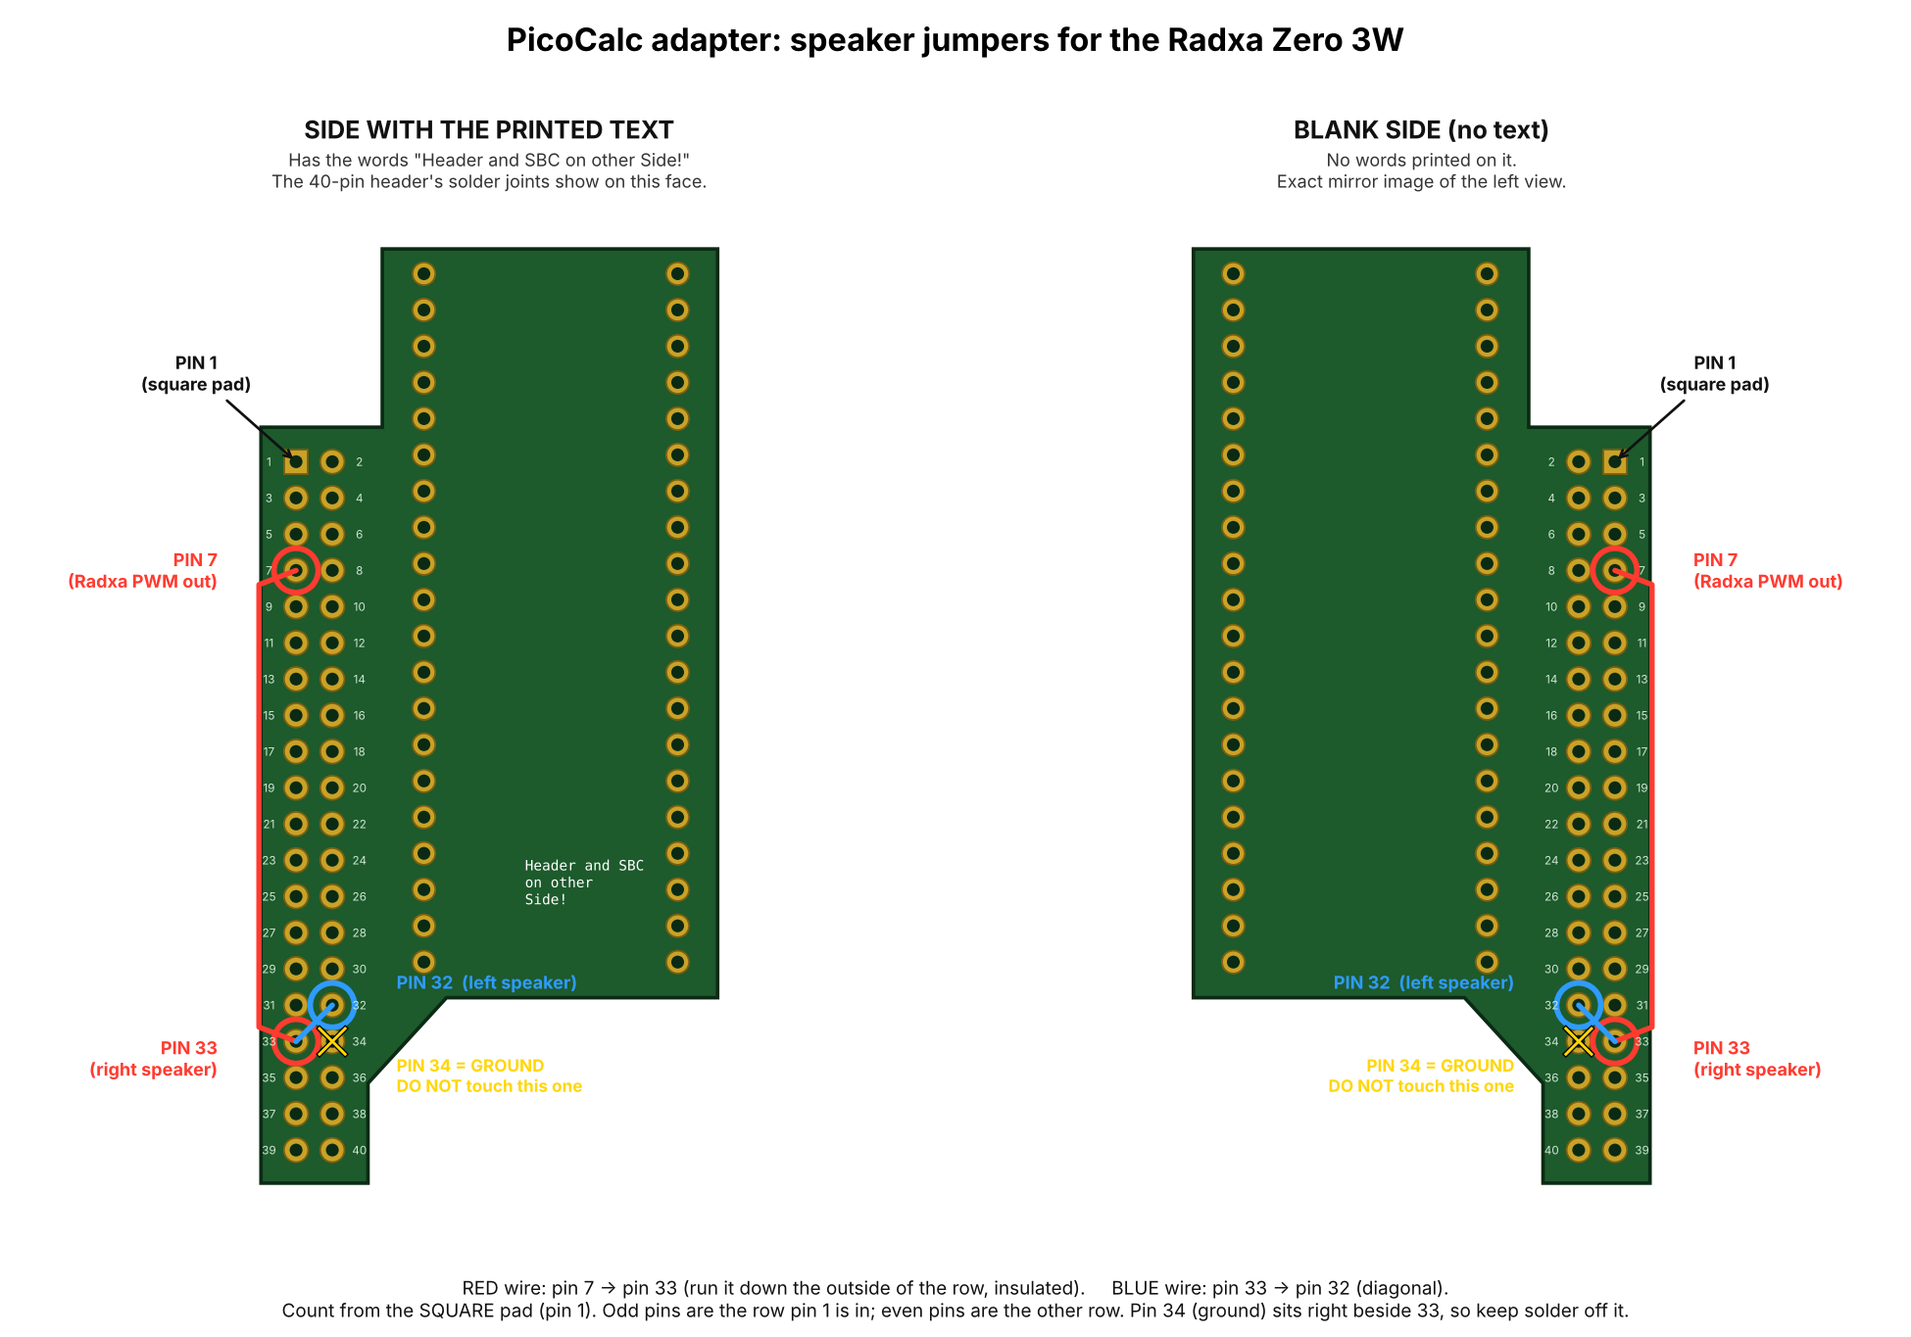
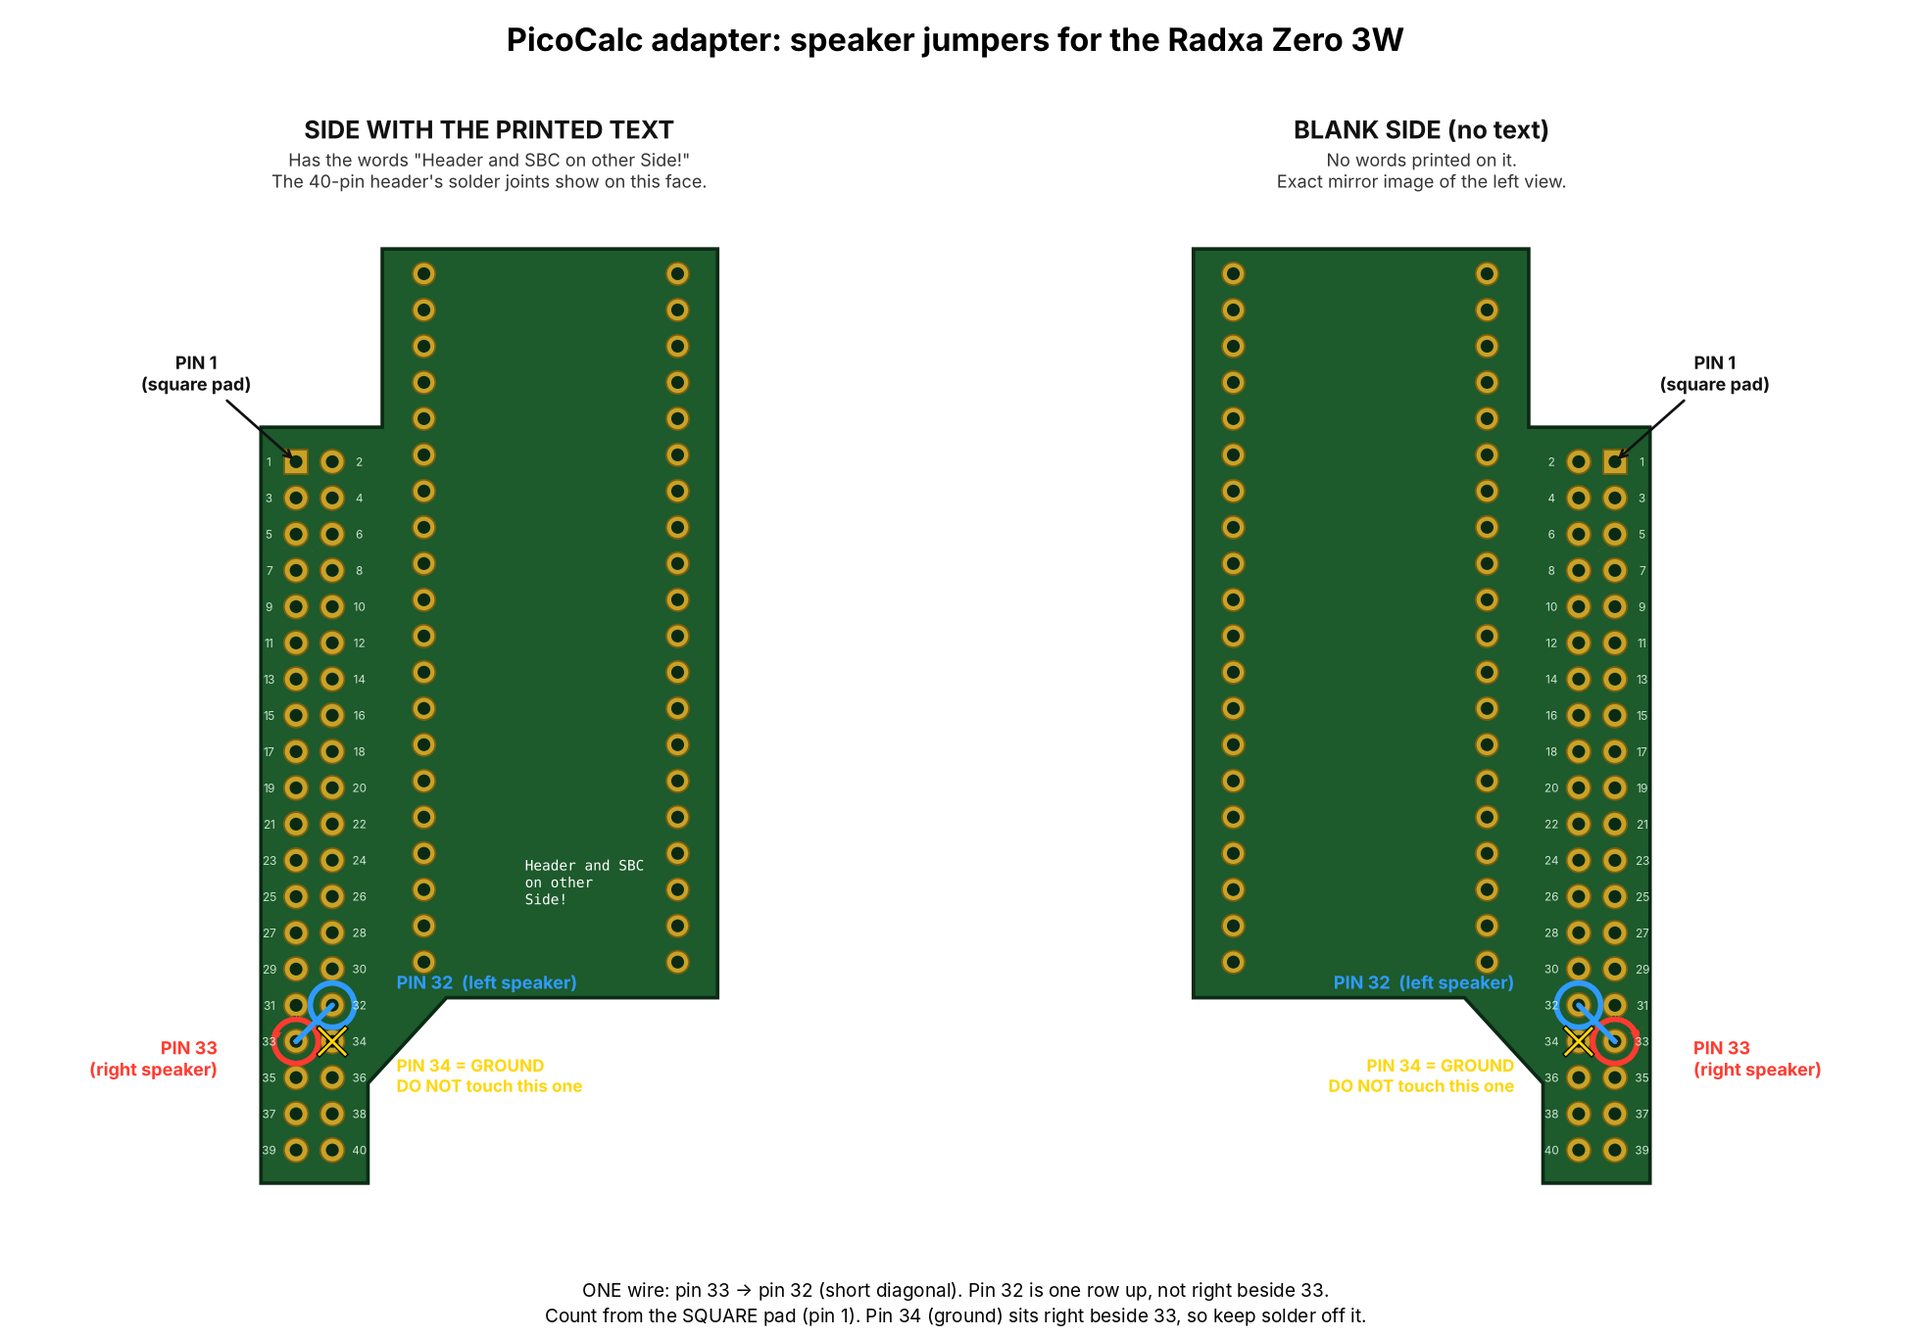
Clean up: remove dead ends so the guides only show what works
Audio: one jumper wire (33 to 32); the old pin 7 wire and PWM attempt are gone, diagram redrawn. Display: section 10 trimmed to the compositor fix and a pointer to the screen speed addendum; the wrong 3-bytes-per-pixel theory and untested tweaks removed. Screen speed: RetroArch step now works from a fresh setup.

diff --git a/ADDENDUM-audio.md b/ADDENDUM-audio.md
@@ -1,6 +1,6 @@
 # Addendum: Speaker and headphone audio (Radxa Zero 3W, Armbian)
 
-This addendum covers getting sound out of the PicoCalc's own speaker and headphone jack with a Radxa Zero 3W on the Michael Mayer ZeroCalc adapter. It takes two short jumper wires and some software. The end result is clean sound on the speaker and the headphone jack, with the volume wheel still working.
+This addendum covers getting sound out of the PicoCalc's own speaker and headphone jack with a Radxa Zero 3W on the Michael Mayer ZeroCalc adapter. It takes one short jumper wire and some software. The end result is clean sound on the speaker and the headphone jack, with the volume wheel still working.
 
 Items are labeled **Verified** (seen working on the real hardware), **Observed** (seen, cause is our best guess) or **Untested**.
 
@@ -15,44 +15,34 @@ Items are labeled **Verified** (seen working on the real hardware), **Observed**
 
 - **Verified:** with no changes, the only sound card Linux sees is `rockchip-hdmi0`. Games and movies play into the micro-HDMI port.
 - **Verified:** the adapter is laid out like a Pi Zero adapter. Its Gerber files route the PicoCalc's audio lines to header **pin 32 (PWM_L)** and **pin 33 (PWM_R)**. On a Raspberry Pi those are PWM audio pins, so a Pi Zero 2W gets sound with one config line.
-- **Verified:** on the Radxa Zero 3W, pins 32 and 33 cannot do hardware PWM. The nearest usable PWM (PWM14_M0) comes out on **pin 7**, which the adapter leaves unconnected.
+- **Verified:** on the Radxa Zero 3W, pins 32 and 33 cannot do hardware PWM, so the Pi's one-line trick doesn't work. Pin 32 can be the Radxa's I2S data line instead, and that's what this setup uses.
 - From the PicoCalc schematic: only the **left** line (pin 32) reaches the speaker amp. The right line only goes to the headphone jack.
 
-## The jumper wires
+## The jumper wire
 
-Solder these on the back of the adapter, where the Radxa's header pins come through. Find the **square pad**: that's pin 1. Count from there.
+Solder it on the back of the adapter, where the Radxa's header pins come through. Find the **square pad**: that's pin 1. Count from there.
 
 ![Jumper wires on the ZeroCalc adapter, both sides of the board](images/picocalc_speaker_jumpers.png)
 
 *Drawn from the adapter's Gerber files, so the pad positions are exact. Use whichever view matches the side facing you.*
 
-| Wire | From | To | Notes |
-|---|---|---|---|
-| 1 | Pin 7 | Pin 33 | Insulated wire, run down the outside of the odd-numbered row so it doesn't touch the pins in between |
-| 2 | Pin 33 | Pin 32 | Short diagonal piece of wire. Pin 32 is one row up, not right beside 33 |
+| From | To | Notes |
+|---|---|---|
+| Pin 33 | Pin 32 | Short diagonal piece of wire. Pin 32 is one row up, not right beside 33 |
 
 > **Watch pin 34.** Pin 34 is **ground** and sits right beside pin 33. A solder bridge from 33 to 34 shorts the audio to ground. After soldering, a continuity check from 33 to 34 should **not** beep.
 
 A dab of hot glue over the joints works well for strain relief.
 
-**With the final software setup (below), pin 7 is no longer used.** Sound goes out pin 32, and the 32–33 bridge feeds the right side of the headphone jack. The pin 7 wire is harmless, so it can stay.
+Sound goes out pin 32 (left), and this wire carries it to pin 33 (right side of the headphone jack).
 
-## Software: what didn't work well, and what did
+> If you followed an older version of this page and also have a wire from **pin 7** to pin 33, it isn't used anymore. It's harmless, so it can stay.
 
-### First attempt: PWM driver on pin 7 (not recommended)
+## Software: 1-bit audio over I2S on pin 32 (Verified)
 
-A custom kernel driver fed the PWM on pin 7 one sample at a time from a timer. It worked, but it topped out at roughly 8-bit sound with audible hiss, even after several revisions.
+Pin 32 can also be the Radxa's **I2S1 SDO3** data line. The I2S hardware streams bits on its own steady clock, so a small converter turns normal audio into a fast 1-bit stream (delta-sigma modulation). The PicoCalc's existing filter smooths that back into sound, the same way it does for the Pico's PWM. No extra DAC or amp is needed.
 
-Things learned along the way:
-
-- **Verified:** `armbian-config`'s overlay menu fails on this image with "invalid overlay prefix". `armbianEnv.txt` says `overlay_prefix=rk35xx`, but the overlay files are named `rk3568-*.dtbo`. Load overlays by copying them into `/boot/overlay-user/` and adding them to `user_overlays=` instead. Don't change `overlay_prefix`, because the boot script also uses it to find a fixup script.
-- **Verified:** the Rockchip PWM driver only switches the PWM register clock on while it changes settings. A driver that writes the duty register every sample has to keep that clock on itself.
-
-### Final setup: 1-bit audio over I2S on pin 32 (Verified, recommended)
-
-Pin 32 can also be the Radxa's **I2S1 SDO3** data line. The I2S hardware streams bits on its own steady clock, so instead of a timer poking the PWM, a small converter turns normal audio into a fast 1-bit stream (delta-sigma modulation). The PicoCalc's existing filter smooths that back into sound, the same way it does for the Pico's PWM.
-
-#### Installing it
+### Installing it
 
 Everything is in the [`audio/`](audio/) folder of this repo. Copy that folder to the PicoCalc (WinSCP works fine), then over SSH:
 
@@ -73,7 +63,7 @@ speaker-test -D picocalc -c 2 -r 48000 -t sine -f 440 -l 1
 
 What it installs:
 
-1. **Device-tree overlay** `picocalc-i2s-dsm.dtbo` in `/boot/overlay-user/`. Turns on I2S1 and puts only its SDO3 line on pin 32. The PWM overlays are removed from `user_overlays` so nothing else drives that wire.
+1. **Device-tree overlay** `picocalc-i2s-dsm.dtbo` in `/boot/overlay-user/`. Turns on I2S1 and puts only its SDO3 line on pin 32. If any PWM overlays are listed in `user_overlays`, the installer removes them so nothing else drives that wire.
 2. **Stand-in codec driver** `picocalc_dsm_codec.ko` in `/lib/modules/$(uname -r)/extra/`. The I2S driver expects a codec on the other end of the link, and the PicoCalc has none, so this one just accepts the bits.
 3. **The 1-bit converter**, an ALSA plugin: `libasound_module_pcm_picocalc_dsm.so` in `/usr/lib/aarch64-linux-gnu/alsa-lib/`, configured in `/etc/alsa/conf.d/60-picocalc-dsm.conf` as the ALSA device `picocalc`. Each audio frame becomes 64 bits on the wire (48 kHz × 64 = 3.072 Mbit/s). Simulated in-band signal-to-noise is about 74 dB, roughly 12-bit sound. The output ceiling is set to 0.88 of full swing (tested stable; around 0.92 and up the modulator starts to wobble).
 4. **PipeWire sink** "PicoCalc Speakers", in `~/.config/pipewire/pipewire.conf.d/60-picocalc-dsm.conf`.
@@ -85,7 +75,9 @@ What it installs:
 user_overlays=ili9488-panel-mipi-dbi-spi picocalc-kbd-i2c3 spi3-nodma picocalc-i2s-dsm
 ```
 
-(Later display work may change the `spi3` entry. Keep whatever your display setup needs and just add `picocalc-i2s-dsm`.)
+Keep whatever your display setup needs and just add `picocalc-i2s-dsm`. If you also do the [screen speed fix](ADDENDUM-screen-speed.md), `spi3-poll` goes on the end too.
+
+**Good to know:** `armbian-config`'s overlay menu fails on this image with "invalid overlay prefix". Load overlays by copying them into `/boot/overlay-user/` and adding them to `user_overlays=` (the installer does this for you). Don't change `overlay_prefix`, because the boot script also uses it.
 
 ### PipeWire sink config (fixes crackling and pause pops)
 
@@ -153,8 +145,6 @@ wpctl get-volume <number>     # check a sink or stream volume
 ```
 
 Bluetooth and USB audio still work alongside this. Pair or plug in, find the device under Sinks in `wpctl status`, and `wpctl set-default` to it. Plugging into the headphone jack mutes the speaker, the same as on stock hardware.
-
-Boot config backups made along the way: `/boot/armbianEnv.txt.before-pwm`, `.before-audio`, `.before-i2s`.
 
 ## Ideas not done yet (Untested)
 

diff --git a/ADDENDUM-desktop-and-display.md b/ADDENDUM-desktop-and-display.md
@@ -121,7 +121,7 @@ sudo dmesg | grep -c "Bad Desc"
 
 We got `0`, and the SPI channels no longer appeared in the DMA summary.
 
-**Important:** this did **not** stop the GNOME apps-grid crash, so those were two separate problems. We did not measure whether CPU-driven SPI is slower in practice (**Untested**).
+**Important:** this did **not** stop the GNOME apps-grid crash, so those were two separate problems. Feeding the panel by CPU is slow until you also add the `spi3-poll` overlay; see the [screen speed addendum](ADDENDUM-screen-speed.md).
 
 **To undo:** remove `spi3-nodma` from the `user_overlays=` line in `/boot/armbianEnv.txt`, then reboot.
 
@@ -207,7 +207,8 @@ On the login screen, choose **Xfce Session**, **not** the Wayland variant. The X
 4. Skip GNOME's apps grid. Install XFCE (section 5).
 5. Add `20-picocalc.conf` (section 4) **before** logging in to any X11 session, so you don't see a black screen.
 6. Lower XFCE's DPI so the interface fits the panel (section 8).
-7. Keep a backup image of the card once everything works.
+7. For games, turn off XFCE's compositor (section 10), then follow the [screen speed addendum](ADDENDUM-screen-speed.md).
+8. Keep a backup image of the card once everything works.
 
 ## 8. Making things fit: the 640x640 trick does not work here, lowering DPI does
 
@@ -287,36 +288,17 @@ RetroPie was already installed on this machine (installing it is not covered her
 - Which core is the default for a system: `cat /opt/retropie/configs/gba/emulators.cfg`
 - Edit these as your normal user, not with `sudo sed -i`, because that can change the file's owner and stop RetroArch from saving to it.
 
-**What we found, in order:**
+**Turn off XFCE's window compositor** (**Verified**): the game then fills the screen and runs noticeably faster. XFCE saves this setting by itself.
 
-1. **Window not filling the screen, and slow** (**Verified** fix): turning off XFCE's window compositor made the game fill the screen and run noticeably faster. XFCE saves this setting by itself.
-   ```
-   DISPLAY=:0 XAUTHORITY=/run/user/1000/gdm/Xauthority DBUS_SESSION_BUS_ADDRESS=unix:path=/run/user/1000/bus xfconf-query -c xfwm4 -p /general/use_compositing -n -t bool -s false
-   ```
-   To undo it, run the same command with `-s true`.
-2. **Heat is not the problem** (**Verified**): while a game was running, the SoC read 66 C, the GPU 61 C, and all four cores sat at the 1.8 GHz maximum. No throttling. The case does feel warm to the touch.
-3. **The emulator is not CPU-bound** (**Verified**): `top` during Doom showed RetroArch at only about 18% CPU, while a kernel worker (about 47%), Xorg (about 24%) and softirq time (about 21%) were busy. The game was waiting on the screen update path, not on emulation.
-4. **Turning off RetroArch shaders** (`video_shader_enable = "false"`) made no noticeable difference (**Observed**).
-5. **A smaller window did not help** (**Verified**): with `video_fullscreen = "false"` and `video_scale = "1.000000"`, plus `fps_show = "true"` for an on-screen counter, GBA Doom still ran at 19 to 30 fps. So the idea that fewer pixels would be faster was wrong in this setup.
-6. **Threaded video helped** (**Verified**): adding these lines to the global `retroarch.cfg` let the game keep its own speed and drop frames the panel can't show. Typical rate went to 33 to 36 fps, with a dip to about 28 in the busiest scene, and it felt faster.
-   ```
-   printf 'video_threaded = "true"\nvideo_vsync = "false"\n' >> /opt/retropie/configs/all/retroarch.cfg
-   ```
-7. **mGBA frame skip** (**Observed**): adding `mgba_frameskip = "auto"` to the core options file (with RetroArch closed) raised the worst scene from about 28.5 to about 32.5 fps. The option name and value are from memory; if your core version differs, it is simply ignored.
-   ```
-   cp /opt/retropie/configs/all/retroarch-core-options.cfg ~/core-options.bak
-   echo 'mgba_frameskip = "auto"' >> /opt/retropie/configs/all/retroarch-core-options.cfg
-   ```
+```
+DISPLAY=:0 XAUTHORITY=/run/user/1000/gdm/Xauthority DBUS_SESSION_BUS_ADDRESS=unix:path=/run/user/1000/bus xfconf-query -c xfwm4 -p /general/use_compositing -n -t bool -s false
+```
 
-**Result:** GBA Doom is playable but still slower than real hardware. Tomb Raider: Legend ran well, with dips to about 28 fps in busy scenes, where the original console would also slow down.
+To undo it, run the same command with `-s true`.
 
-> **Update:** the theory below turned out to be wrong. The panel already runs 16-bit at 99 MHz; the real limit was SPI interrupt overhead. See the [screen speed addendum](ADDENDUM-screen-speed.md) for the fix.
+**Heat is not a problem** (**Verified**): while a game was running, the SoC read 66 C, the GPU 61 C, and all four cores sat at the 1.8 GHz maximum. No throttling.
 
-**Our best explanation for the remaining limit** (**Untested**, treat as a lead): the ILI9488 panel takes 3 bytes per pixel over SPI. A full 320x320 frame at about 70 MHz tops out near 28 fps if every frame is sent as a full-screen update, which matches the 19 to 30 fps we saw before threading. If that is right, no emulator setting can raise the ceiling, and the only remaining levers are in the display driver.
-
-**Not tried (riskier):** re-enabling DMA for the panel's SPI bus (it caused the `Bad Desc` error flood in section 3), or running the SPI bus at a higher clock. Back up `/boot/armbianEnv.txt` before trying either.
-
-**To undo the RetroArch changes:** keep backups before you edit (`cp /opt/retropie/configs/all/retroarch.cfg ~/retroarch-all.cfg.bak`) and copy them back.
+**For smooth games, follow the [screen speed addendum](ADDENDUM-screen-speed.md) next.** It has the two changes that fixed the stutter (SPI polling mode and RetroArch vsync off), with measurements.
 
 ## Credits
 

diff --git a/ADDENDUM-screen-speed.md b/ADDENDUM-screen-speed.md
@@ -1,6 +1,6 @@
 # Addendum: Game speed on the 320x320 panel (SPI polling mode)
 
-This addendum follows section 10 of the [desktop and display addendum](ADDENDUM-desktop-and-display.md). It covers what was actually holding games back on the PicoCalc screen, and the two changes that fixed the stutter: putting the panel's SPI bus in polling mode, and turning RetroArch's vsync off.
+This addendum follows the [desktop and display addendum](ADDENDUM-desktop-and-display.md) (do its section 10, compositor off, first). It covers what was actually holding games back on the PicoCalc screen, and the two changes that fixed the stutter: putting the panel's SPI bus in polling mode, and turning RetroArch's vsync off.
 
 Items are labeled **Verified** (seen working on the real hardware), **Observed** (seen, cause is our best guess) or **Untested**.
 
@@ -28,13 +28,13 @@ After it's back up:
 dmesg | grep 'fe640000.spi: probed'
 ```
 
-It should say `poll=1`. Then set RetroArch's vsync off (see "Change 2" below).
+It should say `poll=1`. Then do the RetroArch settings in "Change 2" below.
 
 **Result** (**Verified**): GBA Doom went from stuttery to "damn near okay", and Tomb Raider: Legend, which used to dip to about 28 fps, plays smoothly.
 
-## What the old theory got wrong
+## What was really slowing games down
 
-Section 10 of the display addendum guessed that the panel takes 3 bytes per pixel and the clock was the ceiling. A read-only diagnostic during gameplay showed otherwise (**Verified**):
+A read-only diagnostic during gameplay showed (**Verified**):
 
 - **16-bit color is already on.** The panel's init sequence sets `3a 55` (RGB565, 2 bytes per pixel), and colors look right. Nothing to gain there.
 - **The SPI clock is already maxed at 99 MHz.** The SPI block runs from a 198 MHz source and divides by even numbers only, so the possible speeds are 99, 49.5, 33 MHz and so on. **Anything you ask for under 99 MHz really runs at 49.5.** On our unit the panel overlay requests 99 MHz, and that's what it gets. At 99 MHz and 2 bytes per pixel, the wire can carry about 60 full 320x320 frames a second.
@@ -88,18 +88,18 @@ sudo sed -i 's/ spi3-poll//' /boot/armbianEnv.txt && grep user_overlays /boot/ar
 
 Then power off and on.
 
-## Change 2: RetroArch vsync off
+## Change 2: RetroArch threaded video on, vsync off
 
-This panel has no tear-sync (TE) signal, so vsync on only adds waiting. On our unit `video_vsync` had ended up back on `"true"`, and `video_threaded` was listed twice. Run as your normal user, **not** with `sudo`, so the file stays owned by you:
+This panel has no tear-sync (TE) signal, so vsync on only adds waiting. Threaded video lets the game keep its own speed. On our unit `video_vsync` had ended up back on `"true"`, and `video_threaded` was listed twice, so these commands clear out any old copies of both lines and write them once. Run as your normal user, **not** with `sudo`, so the file stays owned by you:
 
 ```
 cp /opt/retropie/configs/all/retroarch.cfg ~/retroarch-all.cfg.bak-poll
-sed -i 's/^video_vsync = .*/video_vsync = "false"/' /opt/retropie/configs/all/retroarch.cfg
-awk '!(/^video_threaded =/ && seen++)' /opt/retropie/configs/all/retroarch.cfg > /tmp/ra.cfg && cat /tmp/ra.cfg > /opt/retropie/configs/all/retroarch.cfg
-grep -E '^video_(vsync|threaded|driver)' /opt/retropie/configs/all/retroarch.cfg
+sed -i '/^video_vsync =/d; /^video_threaded =/d' /opt/retropie/configs/all/retroarch.cfg
+printf 'video_threaded = "true"\nvideo_vsync = "false"\n' >> /opt/retropie/configs/all/retroarch.cfg
+grep -E '^video_(vsync|threaded)' /opt/retropie/configs/all/retroarch.cfg
 ```
 
-It should show `video_driver = "gl"`, `video_threaded = "true"` once, and `video_vsync = "false"`.
+It should show `video_threaded = "true"` and `video_vsync = "false"`, once each.
 
 **To undo:** `cp ~/retroarch-all.cfg.bak-poll /opt/retropie/configs/all/retroarch.cfg`
 

diff --git a/README.md b/README.md
@@ -4,7 +4,7 @@
 
 > **Update:** after the display and keyboard work, you may hit a desktop crash, DMA errors, or a black screen on X11. See the [addendum on getting a usable desktop on the 320x320 panel](ADDENDUM-desktop-and-display.md).
 >
-> **Audio:** for speaker and headphone sound (two jumper wires plus a 1-bit I2S setup), see the [audio addendum](ADDENDUM-audio.md).
+> **Audio:** for speaker and headphone sound (one jumper wire plus a 1-bit I2S setup), see the [audio addendum](ADDENDUM-audio.md).
 >
 > **Game speed:** for smooth games on the panel (SPI polling mode plus RetroArch vsync off), see the [screen speed addendum](ADDENDUM-screen-speed.md).
 
